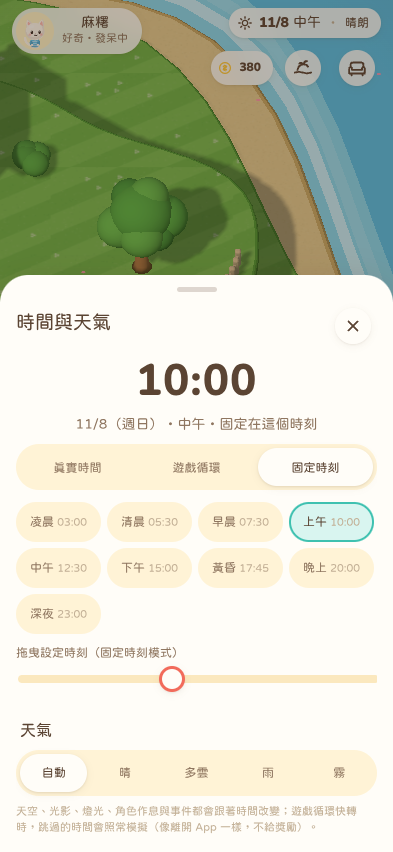
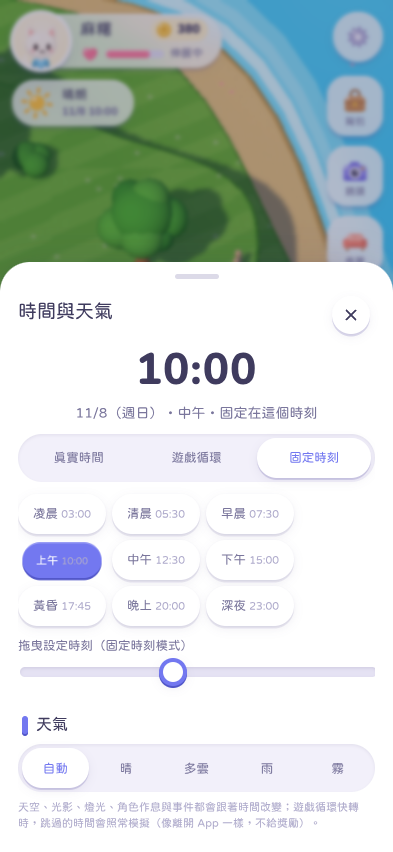
10.0: native colours follow the new palette (launch, pet popups, diagnostics, widget), design-system doc rewritten, sticker markup without stray whitespace, v8 test waits for spring entrances
Claude-Session: https://claude.ai/code/session_01PAZxUZ1nduqVoNWZ69f7R7

diff --git a/android/app/src/main/java/app/ocshimeji/Diagnostics.kt b/android/app/src/main/java/app/ocshimeji/Diagnostics.kt
@@ -83,15 +83,15 @@ object Diagnostics {
         Log.e(TAG, full)
         val d = act.resources.displayMetrics.density
         fun px(v: Int) = (v * d).toInt()
-        val ink = Color.parseColor("#5B4433"); val bg = Color.parseColor("#FFF8E7")
+        val ink = Color.parseColor("#3F3B5E"); val bg = Color.parseColor("#F6F4FC")
         val root = LinearLayout(act).apply { orientation = LinearLayout.VERTICAL; setBackgroundColor(bg); setPadding(px(20), px(48), px(20), px(24)) }
         root.addView(TextView(act).apply { text = title; textSize = 20f; setTextColor(ink); typeface = Typeface.DEFAULT_BOLD })
         root.addView(TextView(act).apply { text = message; textSize = 15f; setTextColor(ink); setPadding(0, px(8), 0, px(12)) })
-        val detailView = TextView(act).apply { text = full; textSize = 11f; typeface = Typeface.MONOSPACE; setTextColor(Color.parseColor("#6B5442")); setTextIsSelectable(true); setPadding(px(12), px(12), px(12), px(12)); setBackgroundColor(Color.parseColor("#FFF3D6")) }
+        val detailView = TextView(act).apply { text = full; textSize = 11f; typeface = Typeface.MONOSPACE; setTextColor(Color.parseColor("#5A5680")); setTextIsSelectable(true); setPadding(px(12), px(12), px(12), px(12)); setBackgroundColor(Color.parseColor("#FFF3D6")) }
         root.addView(ScrollView(act).apply { addView(detailView) }, LinearLayout.LayoutParams(ViewGroup.LayoutParams.MATCH_PARENT, 0, 1f))
         fun button(label: String, primary: Boolean, fn: () -> Unit) = Button(act).apply {
             text = label; isAllCaps = false; textSize = 15f
-            if (primary) { setBackgroundColor(Color.parseColor("#F26B5B")); setTextColor(Color.WHITE) }
+            if (primary) { setBackgroundColor(Color.parseColor("#7378F0")); setTextColor(Color.WHITE) }
             setOnClickListener(View.OnClickListener { fn() })
         }
         val buttons = LinearLayout(act).apply { orientation = LinearLayout.VERTICAL; gravity = Gravity.CENTER_HORIZONTAL; setPadding(0, px(12), 0, 0) }

diff --git a/game/tests/v8/run.js b/game/tests/v8/run.js
@@ -12,6 +12,8 @@ const want = (n) => !only.length || only.includes(n);
 const SHOTS = process.env.OC_SHOTS || path.join(__dirname, '..', '..', '..', 'deliverables', 'v8');
 fs.mkdirSync(SHOTS, { recursive: true });
 const shot = (page, n) => page.screenshot({ path: path.join(SHOTS, n + '.png') });
+/** wait until no CSS animation / transition is running inside the element (spring entrances) */
+const settle = (page, sel) => page.waitForFunction((sel) => !document.getAnimations().some((a) => a.playState === 'running' && a.effect && a.effect.target && a.effect.target.closest && a.effect.target.closest(sel)), sel, { timeout: 5000 }).catch(() => {});
 const body = (page, id) => page.evaluate((i) => { const a = i ? OC.App.actorOf(i) : OC.App.player; return OC.World.project(a.x, a.y, a.lvl || 0, a.gy - (a.lvl || 0) * OC.World.HY + 30); }, id || null);
 
 (async () => {
@@ -33,6 +35,7 @@ const body = (page, id) => page.evaluate((i) => { const a = i ? OC.App.actorOf(i
       await page.tap('.intro-welcome .btn.ghost'); await page.waitForSelector('.intro-film', { timeout: 8000 });
       check('2c 歡迎畫面可以重新觀看開場', true);
       await page.tap('.intro-skip'); await page.waitForSelector('.intro-welcome.on', { timeout: 8000 });
+      await settle(page, '.intro-welcome');   // 10.0: the card springs in; tap once it has landed (like a person would)
       await page.tap('.intro-welcome .btn.primary'); await page.waitForSelector('.creator .card', { timeout: 10000 });
       check('1b 「開始新遊戲」直接進入創角（玩家先建立自己的 OC）', await page.evaluate(() => OC.Chars.all().length === 0));
       await page.click('.creator .card >> nth=1'); await wait(page, 300);   // 從零創建

diff --git a/game/index.html b/game/index.html
@@ -45,8 +45,8 @@
       try { if (window.OCNative && OCNative.bootFailed) { OCNative.bootFailed(title, msg, detail); return; } } catch (x) {}
       var show = function () {
         var b = document.getElementById('boot'); if (!b) { b = document.createElement('div'); b.id = 'boot'; document.body.appendChild(b); }
-        b.className = ''; b.style.cssText = 'position:absolute;inset:0;z-index:200;background:#FFF8E7;color:#5B4433;padding:48px 20px;overflow:auto;font:15px sans-serif;display:block';
-        b.innerHTML = '<h2 style="margin:0 0 8px">' + title + '</h2><p>' + msg + '</p><pre style="white-space:pre-wrap;font-size:11px;background:#FFF3D6;padding:12px;border-radius:12px"></pre>';
+        b.className = ''; b.style.cssText = 'position:absolute;inset:0;z-index:200;background:#F6F4FC;color:#3F3B5E;padding:48px 20px;overflow:auto;font:15px sans-serif;display:block';
+        b.innerHTML = '<h2 style="margin:0 0 8px">' + title + '</h2><p>' + msg + '</p><pre style="white-space:pre-wrap;font-size:11px;background:#ECEAF7;padding:12px;border-radius:12px"></pre>';
         b.getElementsByTagName('pre')[0].textContent = detail;
       };
       if (document.readyState === 'loading') document.addEventListener('DOMContentLoaded', show); else show();

diff --git a/android/app/src/main/java/app/ocshimeji/overlay/PetPopups.kt b/android/app/src/main/java/app/ocshimeji/overlay/PetPopups.kt
@@ -17,8 +17,8 @@ import android.widget.TextView
 /** colours for native overlay UI, following the app's theme setting (light / dark / system) */
 data class PetTheme(val bg: Int, val fg: Int, val sub: Int, val accent: Int, val line: Int) {
     companion object {
-        fun of(dark: Boolean) = if (dark) PetTheme(0xF02A3042.toInt(), 0xFFF3EEE6.toInt(), 0xFFB9B2A8.toInt(), 0xFFFF8A7A.toInt(), 0x33FFFFFF)
-        else PetTheme(0xF5FFFDF7.toInt(), 0xFF3B2B25.toInt(), 0xFF7A6A60.toInt(), 0xFFF26B5B.toInt(), 0x22302A40)
+        fun of(dark: Boolean) = if (dark) PetTheme(0xF023253F.toInt(), 0xFFEEEBFF.toInt(), 0xFFB3AFD6.toInt(), 0xFF9A9EFF.toInt(), 0x33FFFFFF)
+        else PetTheme(0xF5FFFFFF.toInt(), 0xFF3F3B5E.toInt(), 0xFF7A769C.toInt(), 0xFF7378F0.toInt(), 0x2250488C)
     }
 }
 

diff --git a/game/js/ui/stickers.js b/game/js/ui/stickers.js
@@ -131,6 +131,7 @@
     seed: `<path d="M24 41V24" stroke="#62B347" stroke-width="3.4" stroke-linecap="round"/><path d="M24 26C14 26 9 19 9.5 11 18 11 24 16 24 26z" fill="#86D163"/><path d="M24 23c0-9 5.6-14 14.5-14 0 9-5.6 14-14.5 14z" fill="#62B347"/>
       <ellipse cx="24" cy="41" rx="11" ry="3.4" fill="#C98A50"/>${glint(14.5, 15, 1.8)}`,
   };
+  for (const k of Object.keys(S)) S[k] = S[k].replace(/>\s+</g, '><').trim();   // no stray whitespace text nodes (screen readers / textContent)
   S.map = S.compass; S.daily = S.flag; S.workshop = S.brush; S.home = S.island; S.achievements = S.trophy; S.collection = S.book; S.decor = S.sofa;
 
   /** a sticker icon: <span class="stk [cls]"><svg …></span>; size via CSS (.stk default 28px; .s 20px; .l 40px; .xl 56px) */

diff --git a/android/app/src/main/java/app/ocshimeji/MainActivity.kt b/android/app/src/main/java/app/ocshimeji/MainActivity.kt
@@ -312,5 +312,5 @@ class MainActivity : Activity() {
 
 /** Colours used before the web layer paints (must match game/css tokens --bg). */
 object Theme {
-    fun background(dark: Boolean): Int = if (dark) 0xFF1D2130.toInt() else 0xFFFFF8E7.toInt()
+    fun background(dark: Boolean): Int = if (dark) 0xFF17182B.toInt() else 0xFFF6F4FC.toInt()
 }

diff --git a/docs/design-system.md b/docs/design-system.md
@@ -1,90 +1,119 @@
-# Design System — 晴日島 Sunny Isle（第二階段）
+# Design System — 10.0「晴空玩具」
 
-風格：**Premium Minimalism**（極簡、留白）＋ 動物森友會式的柔和圓潤、玩具感按鈕 ＋ 曠野之息式的清楚資訊層級。
-所有原則只取方向，所有圖形、圖示、版面皆為原創。
+> 10.0 全面重做美術方向與介面。依據：你提供的參考圖（小島 HUD、俯視小屋、低多邊形世界、粉彩 App、寵物 App、大頭玩偶角色）＋
+> 動物森友會／Tomodachi Life／曠野之息的**設計原則**（柔和圓潤、玩具感、直覺、情緒化的回饋、自然的世界動態）。
+> **沒有使用任何作品的角色、Logo、圖示、介面圖形、地圖或素材**；所有圖示（貼紙）、配色、版面都是原創。
 
-**唯一真實來源：`game/css/tokens.css`**。元件（`game/css/app.css`）只能使用語意 token，禁止寫死色碼
-（例外：繪圖畫布的白紙、物品貼圖、3D 世界——它們是「畫作」不是介面）。
+**唯一真實來源：`game/css/tokens.css`**。元件（`game/css/app.css`）只用語意 token；例外是「畫作」：物品圖、貼紙圖示、3D 世界、角色。
 
-## 1. 主題
+## 1. 美術方向（一句話）
+**暖陽照著的小島（世界）＋ 白瓷玩具般的介面（UI）**：世界負責溫度（暖色主光、冷色天光、金色午後、藍色月光），
+介面保持輕、白、安靜，用長春花紫（periwinkle）表示「可以按／已選取」，用珊瑚紅小圓點表示「有新東西」。
 
+| 參考圖 | 吸收的原則 | 落實在哪裡 |
+|---|---|---|
+| 1 小島 HUD | 左上頭像＋名牌、天氣時間膠囊、右側工具列、任務卡、白色大導覽列、紅點 | `#hud`（§6）、`.tabbar` |
+| 2 俯視小屋 | 粗圓的木頭、溫暖的光、半透明的觸控元件 | 世界打光（§8）、搖桿樣式 |
+| 3、4 低多邊形世界 | 浮在世界上的名稱標籤、白色圓角物品卡、底部膠囊工具列 | 對話泡泡、`.tile`／`.slot`、佈置列 |
+| 5 粉彩 App | 雲朵、圓形分類圖示、柔和紫色 | 頁首雲邊天空（§5）、`.chip-btn.cat` |
+| 6 寵物 App | 大量留白、清楚分區、一致的圖示語言 | 卡片、清單、區塊標題 |
+| 7、8 大頭角色 | 大頭小身、柔軟塑膠的體積感 | 角色看板的「玩具光影」（§8）；角色仍是 2D（不改方向 G） |
+
+## 2. 主題
 | 模式 | 說明 |
 |---|---|
-| 淺色 Light | 奶油底、暖棕文字、珊瑚／青綠／向日葵強調色 |
-| 深色 Dark | **重新設計**的深藍灰底（不是反轉濾鏡）、奶油色文字、粉彩強調色 |
-| 跟隨系統 System | Android 由原生回報（`OCApp.onSystemTheme`），瀏覽器用 `prefers-color-scheme` |
+| 淺色 | 白瓷 `#FFFFFF` 卡片、淡紫白 `#F6F4FC` 底、深靛文字 `#3F3B5E`、長春花紫強調 |
+| 深色 | 星空夜：深靛 `#17182B` 底、月光紫白文字、提亮的粉彩（不是反轉濾鏡） |
+| 跟隨系統 | Android 原生回報；瀏覽器 `prefers-color-scheme` |
 
-- 切換方式：只改 `<html data-theme>`，顏色以 240ms 交叉淡化；**不重建 DOM、不重載材質、不重設 3D 場景**。
-- 開機前就決定主題（`index.html` 內聯腳本 + 原生 `Theme.OC.Launch` / `values-night`），避免白色閃爍。
-- 設定持久化：存檔 `settings.theme` + 原生 `Prefs.themeMode`（原生值為準，因為它也控制啟動畫面）。
-- **UI 主題與島上白天黑夜完全獨立**：深色 UI 可以搭配中午的島。
+- 切換只改 `<html data-theme>`，不重建 DOM、不重載材質、不重設 3D 場景；UI 主題與世界晝夜獨立。
+- Android 啟動畫面、桌寵泡泡、診斷畫面、小工具同步使用新色（`res/values*/colors.xml`、`PetPopups.kt`、`MainActivity.background`、`Diagnostics.kt`）。
 
-## 2. 色彩 token
-
-| Token | Light | Dark | 用途 |
+## 3. 色彩 token（摘要）
+| Token | 淺色 | 深色 | 用途 |
 |---|---|---|---|
-| `--bg` | #FFF8E7 | #1D2130 | 頁面底 |
-| `--surface` | #FFFDF8 | #262B3C | 卡片、表單 |
-| `--surface-2` | #FFF3D6 | #2F3549 | 次層、按鈕底、分段控制 |
-| `--surface-3` | #FBE8BE | #394057 | 軌道、關閉狀態 |
-| `--glass` | 255,253,248 / .86 | 34,39,56 / .86 | 世界上方的 HUD（模糊玻璃） |
-| `--ink` / `--ink-2` / `--ink-3` | #5B4433 / #8F7660 / #C2AF95 | #F5EEDF / #BDB3A3 / #807C86 | 主文字 / 次要 / 提示 |
-| `--accent` (+`--on-accent`, `--accent-soft`) | #F26B5B | #FF8A7A | 主要按鈕、選取 |
-| `--teal` | #3FC1B0 | #5ED3C2 | 背包、開關、成功狀態 |
-| `--sun` | #FFC93C | #FFD666 | 金幣、領取、成就 |
-| `--need-food/energy/mood/social` | 珊瑚/琥珀/粉/藍 | 提亮版 | 需求條 |
-| `--danger`, `--success`, `--locked`, `--heart` | | | 狀態 |
-| `--shadow-1/2/3`, `--lip` | 暖棕陰影 | 黑色陰影 | 高度、玩具按鈕的「按下帶」 |
+| `--bg` / `--surface` / `--surface-2` / `--surface-3` | #F6F4FC / #FFF / #F2F0FA / #E5E2F3 | #17182B / #23253F / #2B2E4C / #363A5C | 底、卡片、次層、軌道 |
+| `--ink` / `--ink-2` / `--ink-3` | #3F3B5E / #7A769C / #AEAACB | #EEEBFF / #B3AFD6 / #7D7AA3 | 文字層級 |
+| `--accent`（`--accent-soft`、`--accent-lip`） | #7378F0 | #9A9EFF | 可以按、已選取、主要按鈕 |
+| `--alert` | #FF5E62 | #FF6E72 | 紅點、徽章、「今日特價」 |
+| `--sun`（`--sun-soft`、`--sun-lip`） | #FFC53D | #FFD15E | 星幣、獎勵、可以領取 |
+| `--teal`（`--teal-soft`、`--teal-lip`） | #3CC7A9 | #55D9BC | 完成、成功 |
+| `--heart` / `--coral` | #FF7A9A / #FF8A72 | 提亮 | 好感、請求 |
+| `--sky-top/mid/low`、`--cloud` | 粉紫天空 | 夜空 | 頁首、開場、創角 |
+| `--hl` / `--lip` / `--toy` / `--toy-2` | | | 玩具質感：上緣高光＋下緣「模具邊」＋柔影 |
 
-對比：正文 `--ink` 對 `--bg` 在兩種主題都 > 7:1；次要文字 `--ink-2` > 4.5:1。
+對比：正文 `--ink` 對 `--bg` > 9:1（兩種主題），次要 `--ink-2` > 4.5:1。深色主題的金色晶片改用金色文字（避免深字深底）。
 
-## 3. 字體與字級
+## 4. 字體、間距、圓角
+- 介面 jf open 粉圓 Huninn；數字 Nunito 800/900（tabular）。標題 800 粗。字級 11 / 12.5 / 14 / 16 / 19 / 23（頁標）/ 24 / 30。
+- 間距 4 / 8 / 12 / 16 / 20 / 24 / 32；頁面左右 16。
+- 圓角：12（小）/ 18（磚、清單）/ 24（卡片）/ 30（表單、對話、狀態卡）/ 膠囊。觸控 ≥ 48dp（`--touch`）。
 
-- 介面：jf open 粉圓 Huninn（OFL）；數字：Nunito 800/900（OFL，tabular）。字型隨 App 打包，離線可用。
-- 字級：11 / 12 / 14（內文）/ 16 / 19（頁標）/ 24 / 30。行高 1.45。WebView `textZoom=100`（版面以 dp 設計）。
+## 5. 形狀語言（「玩具」）
+- **白瓷表面**：`var(--hl)`（上緣 1.5px 白光）＋ `0 3px 0 var(--lip)`（下緣模具邊）＋ 柔和投影。按鈕、圓鈕、工具列、卡片、磚都用同一套。
+- **按下＝下沉、放開＝彈回**：按下 90ms（`--t-press`）往下 2–3px、縮 3–8%；放開用 `--spring`（8% 過衝）彈回。
+- **頁面**：頂部一條粉紫天空，下緣是兩排圓弧做成的雲邊（純 CSS），頁標左邊放這一頁的貼紙（白色圓角墊）。
+- **分類**：圓形貼紙鈕＋標籤＋數量（背包、商店），選取時長春花紫外框並稍微浮起。
+- **空狀態**：一個小小的、表情溫和的背包臉。
 
-## 4. 間距、圓角、尺寸
+## 6. HUD（小島）
+```
+┌──────────────────────────────────────────┐
+│ (頭像)[名字  星幣][♥ 心情條 做什麼]    (鈴)(齒輪)│  ← 頭像＝狀態卡；鈴只在有通知時出現
+│ [☀ 晴朗 / 11/8 15:30]                 [背包] │  ← 天氣時間＝時間面板；右側工具列
+│                                       [鏡頭] │
+│                                       [佈置] │
+│                 （世界）                      │
+│ (✋互動)              [📋 今天的任務  進度 >] │  ← 互動＝你的 OC 的環狀選單；任務卡→日常
+│ [ 小島 | 角色 | 工坊 | 探索 | 日常 ]           │  ← 白色大導覽列，選取的分頁有紫色墊子
+└──────────────────────────────────────────┘
+```
+- 常駐群組 ≤ 6（名牌、天氣、系統鍵、工具列、任務卡＋互動、導覽列）。沒有重複的入口（地圖與日常只在導覽列）。
+- **沉浸**：拖曳／縮放看小島時，HUD 退到 22% 不透明，停手 1.1 秒後回來（`hudCalm()`）；演出時整個隱藏。
+- 小動態：天氣貼紙微微搖擺、有通知時鈴鐺晃一下、互動鈕偶爾揮手、可領取的任務卡有紅點與跳動的禮物；「減少動態」全部關閉。
 
-- 間距 4 / 8 / 12 / 16 / 20 / 24 / 32。頁面左右邊距 16。
-- 圓角 10（小）/ 16（磚）/ 22（卡片）/ 28（表單）/ 999（膠囊）。
-- 觸控：最小 48×48（`--touch`）；視覺較小的元件用透明熱區補足。
-- 安全區：`--sat/--sab/--sal/--sar`，Android 由原生 `OCApp.setInsets(t,r,b,l)` 寫入。
+## 7. 貼紙圖示 `OC.UI.sticker(name, cls)`
+- 48 格原創插畫：底色＋右下陰影＋白色亮點（同一個光源方向：左上）。`game/js/ui/stickers.js`。
+- 尺寸：`.s` 20、預設 28、`.m` 34、`.l` 42、`.xl` 58。深色主題只降一點亮度。
+- 用在：導覽列（未選取時灰階）、HUD、頁標、環狀選單、分類鈕、任務／成就／回饋卡。小的行內符號仍用線條圖示 `OC.UI.icon`（清單列的線條圖示放在淡紫圓角墊上）。
+- `OC.UI.stickerOr(name)`：有貼紙就用貼紙（含別名），沒有就退回線條圖示。
 
-## 5. 動態
+## 8. 世界與角色的畫面
+- **打光**：白天暖色主光（#FFF0D6）對上偏藍的天光（#DAE5FF），陰影是柔和的藍紫；16–18 點金色午後；夜晚月光藍＋螢火蟲。（`env.js` KEYS）
+- **調色**（效能「高／平衡」）：畫布 `saturate(1.2) contrast(1.06)`；「太陽光暈」以 soft-light 疊在右上，依時段變暖金／金橘／月光藍，雨天減弱。
+- **景深**（只有「高」）：畫面上緣與下緣各一條 2.4px 的背景模糊漸層，像微縮模型（不模糊 HUD 與對話泡泡）。
+- **角色的玩具光影**：程式繪製的角色看板加一層上亮下暗、背光側略暗的體積（只畫在角色本身的像素上）；**匯入或手繪的角色圖不加**，保持原作。
+- **跳躍**：預備下蹲 0.1 秒 → 起跳拉長 → 落下微拉長 → 落地壓扁並回彈（`world.js`），減少動態時不預備。
 
+## 9. 動態 token
 | Token | 值 | 用途 |
 |---|---|---|
-| `--ease-out` | cubic-bezier(.22,1,.36,1) | 進場、頁面 |
-| `--ease-in-out` | cubic-bezier(.65,0,.35,1) | 退場、淡出 |
-| `--ease-pop` | cubic-bezier(.34,1.16,.64,1) | 開關、徽章、表情（過衝 ≤ 6%） |
-| `--t-fast` / `--t-base` / `--t-slow` | 140 / 240 / 380ms | 按壓 / 切換 / 頁面與表單 |
+| `--spring` | 計算出的阻尼彈簧（ζ=0.62，過衝 8%），`linear()` 曲線 | 按鈕放開、徽章、圖示、分類、泡泡、選單鈕 |
+| `--spring-soft` | ζ=0.8，過衝 1.5% | 頁面、表單、導覽列墊子 |
+| `--t-press` / `--t-fast` / `--t-base` / `--t-slow` / `--t-spring` | 90 / 140 / 240 / 380 / 560ms | 按下 / 切換 / 淡入 / 頁面 / 彈簧 |
+| `--ease-in` | 加速 | 關閉、退場（表單、快速背包、提示） |
 
-規則：只動 `transform`/`opacity`（不觸發排版）；同一元件不重新觸發進場動畫；
-「減少動態效果」設定（與系統 `prefers-reduced-motion`）把所有過場縮成 1ms，世界的風也減弱。
-3D 世界的光線、天氣切換用 τ≈1.6s 的指數趨近，沒有閃光、沒有鏡頭晃動。
+規則：只動 `transform`／`opacity`；頁面內容「依序落定」（每塊延遲 35–40ms，最多 180ms）；表單用 `--spring-soft` 打開、`--ease-in` 收起；
+不支援 `linear()` 的 WebView 自動退回三次貝茲曲線；「減少動態效果」與系統設定把所有過場縮成 1ms。世界的天氣、時間仍用 τ≈1.6s 趨近。
 
-## 6. 版面骨架
+## 10. 元件清單（10.0 規格）
+| 元件 | 規格 |
+|---|---|
+| `.btn`（primary／teal／sun／ghost／s／block） | 高 46（s 38），膠囊，800 字重，模具邊；primary＝長春花紫 |
+| `.icon-btn` | 48 熱區、白色圓鈕＋模具邊 |
+| `.chip-btn`（一般／`.cat`） | 白色膠囊（選取＝紫底白字）；`.cat` 圓形貼紙分類 |
+| `.seg` | 凹槽軌道＋浮起的白色選取塊（紫字），切換時彈一下 |
+| `.switch` | 開＝紫色；按住時圓點拉長 |
+| `.card` / `.list` / `.row` | 24 圓角白瓷；清單分隔用 1px 內線；列圖示淡紫圓角墊 |
+| `.tile` / `.slot` / `.shop-item` | 白色磚，物品坐在淡色圓形「底座」上；數量膠囊；價格是金色膠囊 |
+| `.sheet` | 30 圓角、彈簧打開、內容依序落定 |
+| `.toast` | 白色膠囊＋模具邊，從 HUD 下方彈出 |
+| `.speech` | 白色圓角泡泡＋模具邊，從尾巴彈出 |
+| `.radial-btn` | 58 白色圓鈕＋貼紙；主要動作紫色外框 |
+| `.status-card` / 時間面板 / 教學卡 | 30 圓角，從觸發點彈出 |
 
-```
-世界層（3D 固定視角，全螢幕）
-HUD（≤ 6 個常駐元件）：角色膠囊｜時間・天氣｜金幣｜佈置｜快速背包 FAB｜(搖桿，選用)
-底部導覽：小島・角色・工坊・探索・更多
-頁面層：分頁頁面（蓋住世界）→ 推入的子頁（蓋住導覽列，左上返回）→ 底部表單 / 對話 / 提示
-```
-- 每頁最多 1 個主要（實心珊瑚）按鈕；主要操作在下方拇指區。
-- 返回鍵／Esc 依序關閉：對話 → 表單 → 子頁 → 回到小島分頁 → 離開 App。
-
-## 7. 圖示
-
-24 格線條圖示（2px、圓頭），定義在 `game/js/ui/ui.js` 的 `IC`，全部原創。物品貼圖是彩色插畫（不隨主題變色，像貼紙）。
-
-
-## 8.0 新元件
-| 元件 | 用途 | 規格 |
-|---|---|---|
-| 環狀情境選單 `OC.Radial` | 點角色／家具、長按地面 | 56px 圓鈕（觸控 ≥ 48dp）＋下方標籤；最多 8 個，7 個以上排成整圈（頂端留給標題），少於 7 個排成上方弧形，角色留在圈中央可見；禁用項目灰底、點了說明原因；彈出 300ms `--ease-pop`、依序 22ms 延遲；點外面關閉；返回鍵關閉 |
-| 狀態卡 | 左上角頭像 | 寬 ≤ 330px、`--r-l`、`--shadow-2`；心情、做什麼與地點、9 個需求條（< 25 變紅）、願望／請求、切換角色列、三個動作（主要按鈕只有「完整檔案」）；400ms 就地更新，不重建 DOM |
-| 時間面板 | 右上角時間 | 大字時鐘（`--font-num`）、模式分段（真實／遊戲循環／固定）、九個時段標籤、滑桿、倍速＋暫停（循環模式）、天氣；每秒就地更新 |
-| 開場 | 首次啟動 | Logo 字母彈入、信箱黑邊 11vh、字幕 `--fs-l` 白字陰影、跳過按鈕在右上；減少動態時直接切換 |
-| 教學卡 | 新手教學 | 底部（分頁列上方）、OC 頭像＋台詞（用該 OC 的說話方式）＋操作提示、步驟數、跳過／下一步；目標元件外圈脈動 |
-| 觸覺分級 | 所有操作 | tick（撫摸、時段）、light（一般）、confirm（完成步驟）、long（抱起）、heavy（重摔落地）、error |
+## 11. 尚未做到（誠實標示）
+- 3D 模型（建築、樹、家具）沒有重新建模；這次只改了光線、調色、景深與環境生物。
+- 動畫工作室、繪畫工坊、角色編輯器沿用新元件樣式，但版面沒有重新設計。
+- 角色仍是 2D 看板（依方向 G）；「大頭玩偶」只吸收比例與體積感，沒有改成 3D 模型。
+- 實機（Android）上的模糊（backdrop-filter）與 `linear()` 效能需要實測；已在「省電」關閉調色與景深、「平衡」關閉景深。
